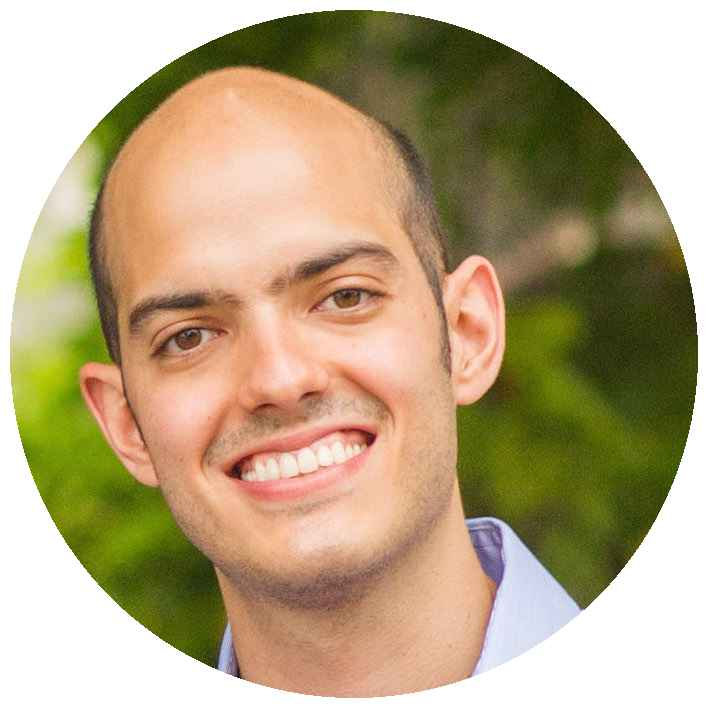
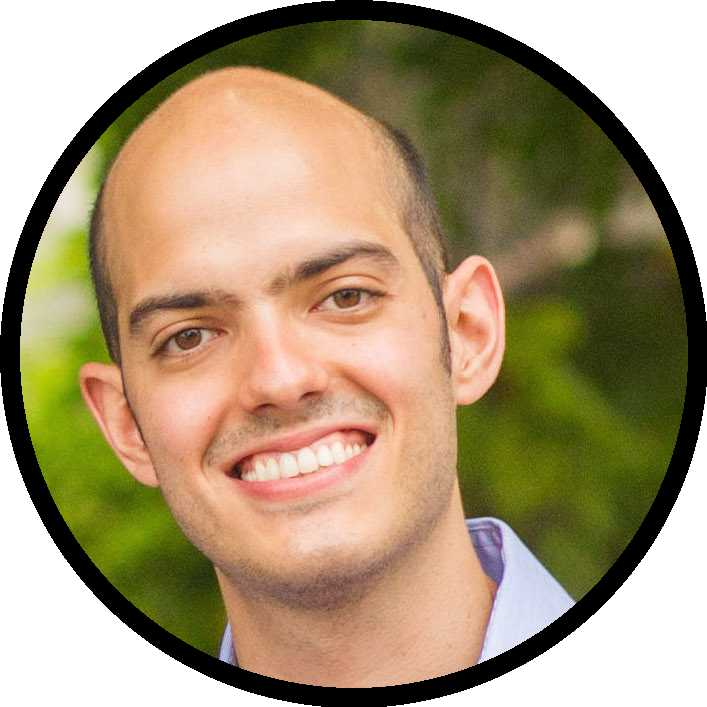
formatting

Changed region(s): [[0.0, 0.0, 1.0, 1.0]]

diff --git a/make-circles.py b/make-circles.py
@@ -28,7 +28,7 @@ for fname in filenames:
 
     # draw a white solid circle
     draw = ImageDraw.Draw(img)
-    draw.ellipse((0, 0) + img.size, outline='white', width=10)
+    draw.ellipse((0, 0) + img.size, outline='black', width=20)
 
     # save to JPEG with reduced quality for smaller file size
-    img.convert("RGB").save(write_path, 'JPEG', quality=40)
+    img.convert("RGB").save(write_path, 'JPEG', quality=50)
